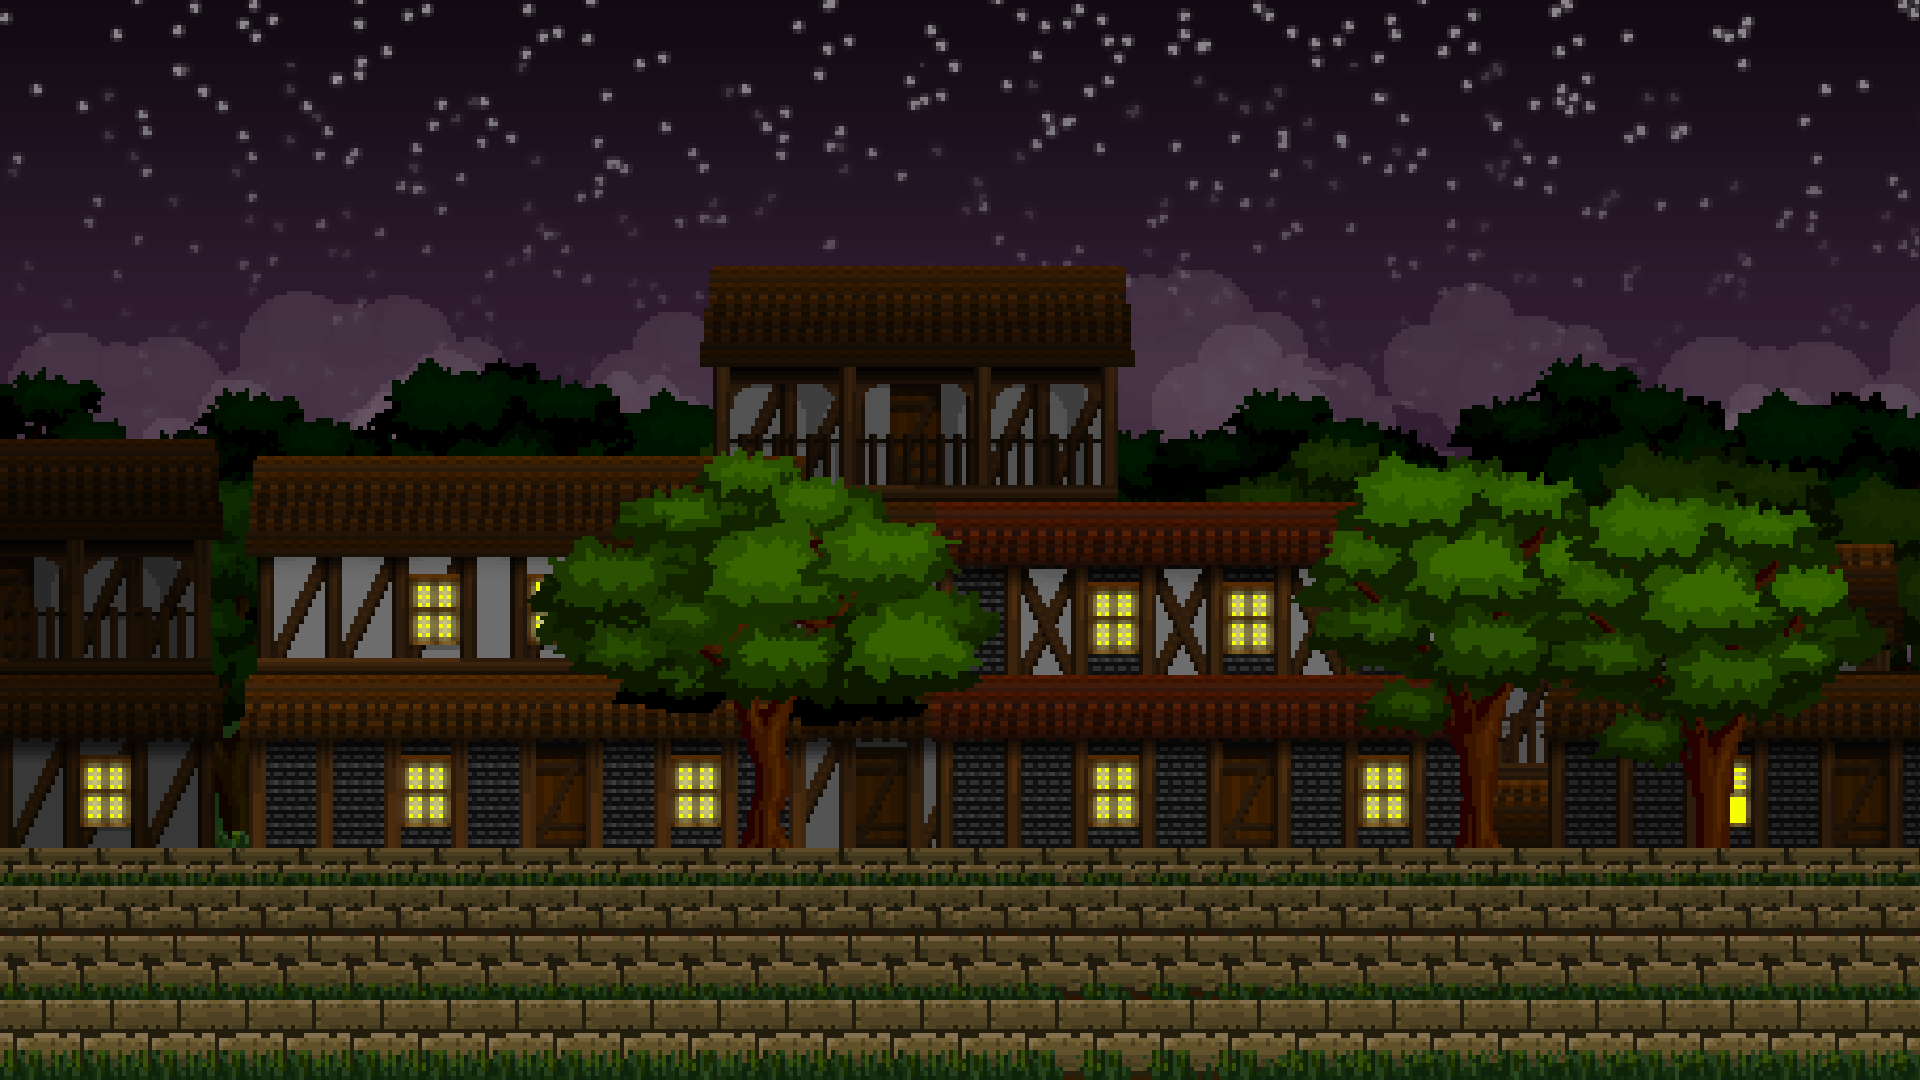
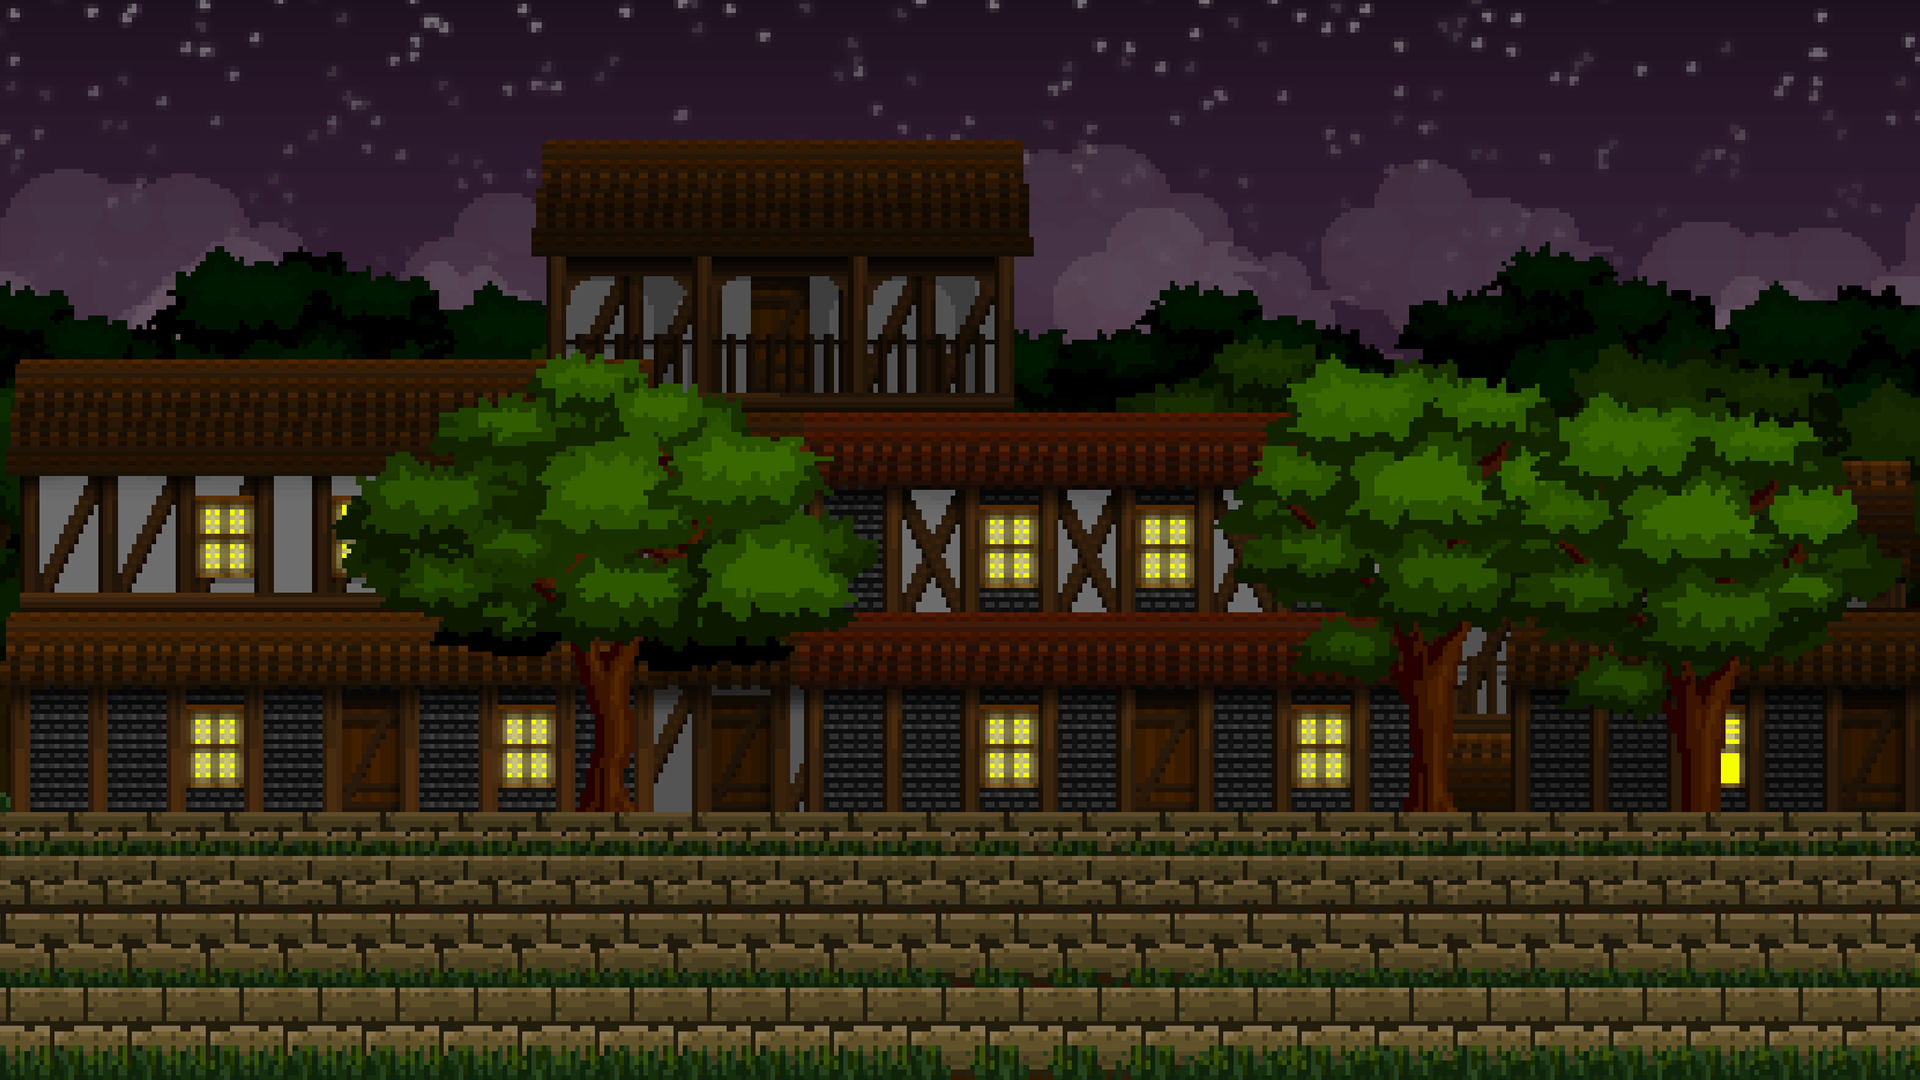
Add score evolution and game over scenarios

diff --git a/scripts/game.js b/scripts/game.js
@@ -36,8 +36,12 @@ class Game {
             this.drawBackground();
             this.drawMainCharacters();
             this.startScore();
-            this.hero.move();
-            this.scrollBackground();
+            this.hero.move();            
+            if (this.hero.x >= 300) {
+                this.scrollBackground();
+            } else {
+                return;
+            }
             for (let i = 0; i < this.enemy.length; i++) {            
                 if (this.enemy[i].x >= 0) {
                     this.enemy[i].move();
@@ -47,7 +51,7 @@ class Game {
                     this.enemy.splice();
                 }
             }
-        }, 1000 / 60);                    
+        }, 1000 / 60);
     }
 
     drawBackground() {
@@ -63,31 +67,39 @@ class Game {
 
     scrollBackground = () => {
         let render = () => {
-            this.ctx.clearRect(0, 0, this.width, this.height);        
-            this.scrollVal += this.speed;                   
+            this.ctx.clearRect(0, 0, this.width, this.height);
+            if (this.scrollVal + 224 >= this.width){
+                this.scrollVal = 0;
+            }        
+            this.scrollVal += this.speed;
+            this.ctx.drawImage(
+                this.backgroundImg2, 800 - this.scrollVal, 0, this.imgWidth, this.imgHeight
+            );                   
             this.ctx.drawImage(
                     this.backgroundImg1, 0 - this.scrollVal, 0, this.imgWidth, this.imgHeight
             );
-            this.ctx.drawImage(
-                this.backgroundImg2, 800 - this.scrollVal, 0, this.imgWidth, this.imgHeight
-            );
-        }    
-        render();     
+        }
+        render();
+        this.drawMainCharacters();
+        this.startScore();
+        this.hero.move();
+        this.score += Math.floor(this.scrollVal / 100);
+        this.isGameFinished();        
     }            
     
     drawMainCharacters() {
         this.hero.drawComponent("/img/hero/hero_idle.png");
     }
 
-    // createEnemy() {
-    //     console.log("creating enemy >>>>> ", this.enemy);
-    //     if (Math.floor(Math.random() * 15) % 5 === 0) {
-    //         this.enemy.push(new Enemy());
-    //     }
-    //     setTimeout(() => {
-    //     this.createEnemy();
-    //     }, 3000);
-    // }
+    createEnemy() {
+        console.log("creating enemy >>>>> ", this.enemy);
+        if (Math.floor(Math.random() * 15) % 5 === 0) {
+            this.enemy.push(new Enemy());
+        }
+        setTimeout(() => {
+            this.createEnemy();
+        }, 3000);
+    }
 
     clear() {
         this.ctx.clearRect(0, 0, this.canvas.width, this.canvas.height);
@@ -97,6 +109,22 @@ class Game {
         let gameFont = "Press Start 2P";
         this.ctx.font = `18px "${gameFont}"`;
         this.ctx.fillStyle = "white";
-        this.ctx.fillText("Score: " + this.score, 850, 50);
+        this.ctx.fillText("Score: " + this.score, 800, 50);
     }
-}  
+
+    isGameFinished() {
+        if (this.score >= 100) {
+        this.clear();
+        let gameFont = "Press Start 2P";
+        this.ctx.font = `36px "${gameFont}"`;
+        this.ctx.textAlign = "center";
+        this.ctx.fillStyle = "white";
+        this.ctx.fillText(
+          "You win!",
+          this.canvas.width / 2,
+          this.canvas.height / 2
+        );
+        }
+        return true;
+    }
+}

diff --git a/scripts/player.js b/scripts/player.js
@@ -39,7 +39,9 @@ class Player extends Component {
                         jump();
                         break;
                     case 39:
-                        this.x += 15;
+                        if (this.x < 300) {
+                            this.x += 15;
+                        }
                         break;
                     case 37:
                         this.x -= 15;
